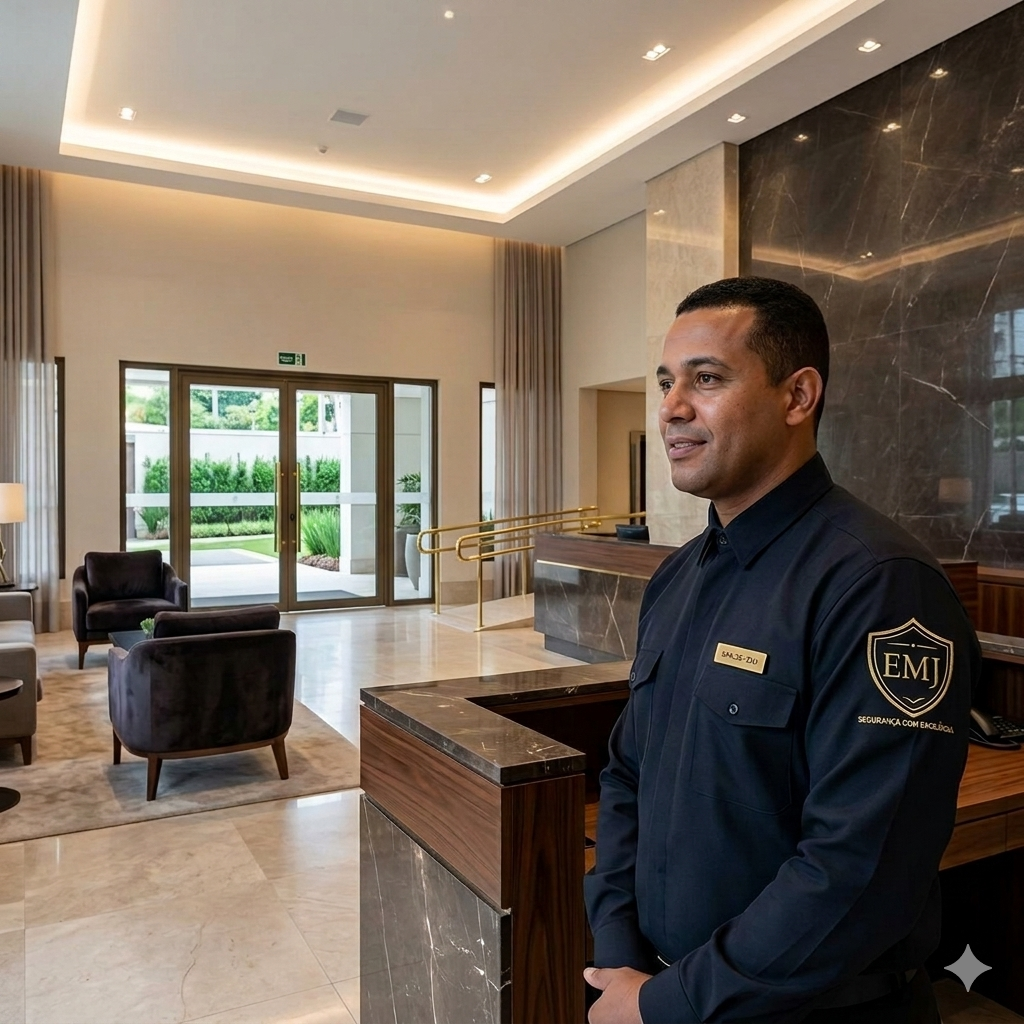
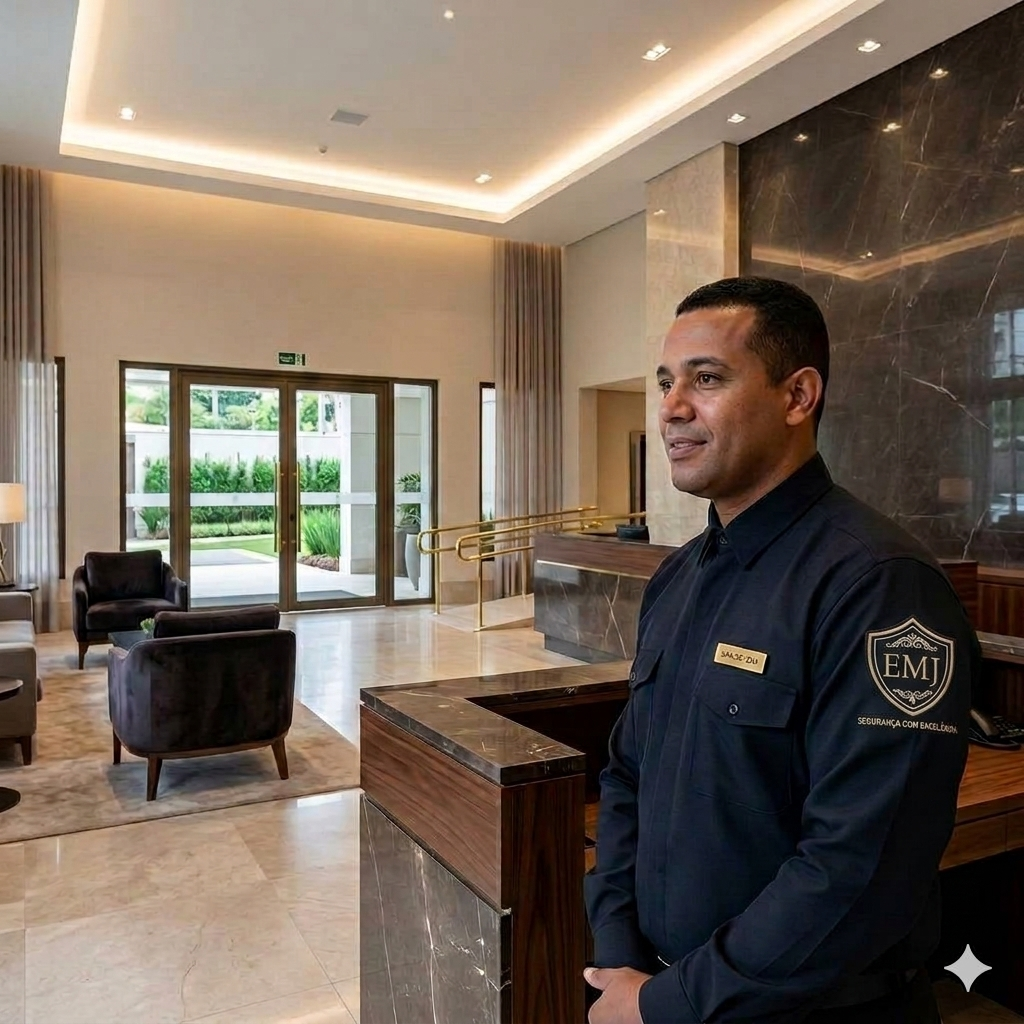
troca de imagens e ajuste do menu no mobile
- corrige o src da secao de seguranca eletronica: instalacao.jpeg virou instalacao.png
- atualiza width/height de limpeza2 e zeladoria para 1024x1024 (tamanho real dos arquivos)
- esconde o subtitulo da marca no menu abaixo de 720px e compacta o header (84px)
- remove o emj-logo_sem_fundo.svg, sem uso desde a troca pelo emj-brasao.svg

Changed region(s): [[0.8438, 0.5938, 0.9375, 0.7188], [0.9062, 0.9062, 0.9688, 0.9688]]

diff --git a/index.html b/index.html
@@ -106,7 +106,7 @@
 
             <li class="linha-item linha-direita">
               <article class="linha-card">
-                <img class="linha-imagem" src="assets/limpeza2.png" alt="Limpeza" width="896" height="1200" loading="lazy" decoding="async" />
+                <img class="linha-imagem" src="assets/limpeza2.png" alt="Limpeza" width="1024" height="1024" loading="lazy" decoding="async" />
                 <div class="linha-texto">
                   <h2>Limpeza</h2>
                   <p>Conservação de ambientes com técnicas profissionais, deixando empresas e áreas comuns sempre impecáveis.</p>
@@ -116,7 +116,7 @@
 
             <li class="linha-item linha-esquerda">
               <article class="linha-card">
-                <img class="linha-imagem" src="assets/zeladoria.png" alt="Zeladoria" width="780" height="1019" loading="lazy" decoding="async" />
+                <img class="linha-imagem" src="assets/zeladoria.png" alt="Zeladoria" width="1024" height="1024" loading="lazy" decoding="async" />
                 <div class="linha-texto">
                   <h2>Zeladoria</h2>
                   <p>Manutenção preventiva e cuidados diários para manter a valorização e a ordem do seu condomínio.</p>
@@ -126,7 +126,7 @@
 
             <li class="linha-item linha-direita">
               <article class="linha-card">
-                <img class="linha-imagem" src="assets/instalacao.jpeg" alt="Segurança Eletrônica" width="1024" height="1024" loading="lazy" decoding="async" />
+                <img class="linha-imagem" src="assets/instalacao.png" alt="Segurança Eletrônica" width="1024" height="1024" loading="lazy" decoding="async" />
                 <div class="linha-texto">
                   <h2>Segurança Eletrônica</h2>
                   <p>Instalação de portaria virtual, suporte de câmeras, alarmes e cercas elétricas com alta tecnologia.</p>

diff --git a/css/styles.css b/css/styles.css
@@ -1198,25 +1198,19 @@ section .narrow {
   }
 
   .header-inner {
-    height: 96px;
+    height: 84px;
   }
 
   .logo img {
-    height: 32px;
+    height: 36px;
   }
 
   .logo .marca-titulo {
-    font-size: 0.95rem;
+    font-size: 1.05rem;
   }
 
   .logo .marca-sub {
-    font-size: 0.42rem;
-    letter-spacing: 0.1em;
-    white-space: normal;
-  }
-
-  .logo .marca-sub br {
-    display: inline;
+    display: none;
   }
 
   .hero {
